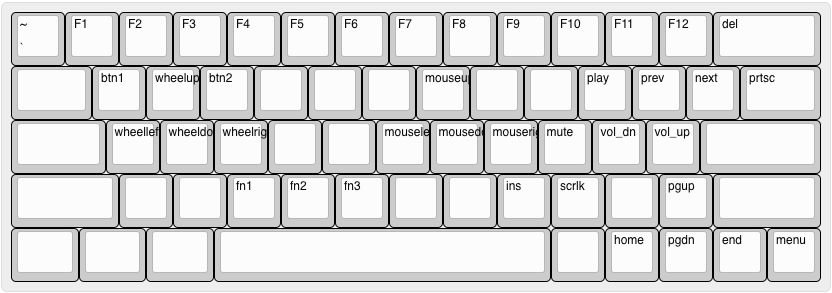
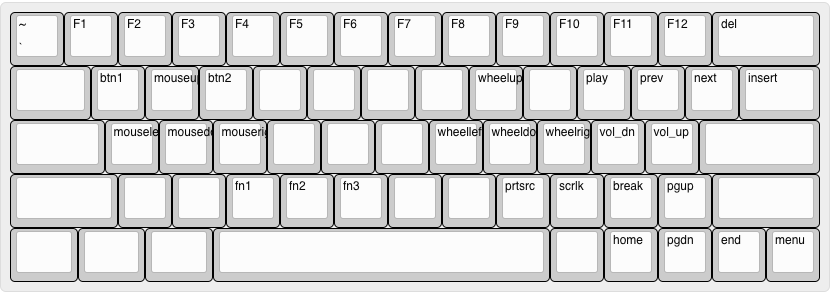
add keymap in C for QMK

Changed region(s): [[0.0, 0.0308, 1.0, 1.0], [0.5938, 0.0308, 0.625, 0.1849], [0.5312, 0.0616, 0.5625, 0.1233]]

diff --git a/keymap.c b/keymap.c
@@ -1,0 +1,32 @@
+#include QMK_KEYBOARD_H
+#include "action_layer.h"
+
+const uint16_t PROGMEM keymaps[][MATRIX_ROWS][MATRIX_COLS] = {
+
+  // 0: Base Layer
+  LAYOUT(
+      KC_ESC,  KC_1,    KC_2,    KC_3,    KC_4,   KC_5,   KC_6,   KC_7,   KC_8,   KC_9,    KC_0,    KC_MINS,  KC_EQL,  KC_BSPC,  KC_NO,    \
+      KC_TAB,  KC_Q,    KC_W,    KC_E,    KC_R,   KC_T,   KC_Y,   KC_U,   KC_I,   KC_O,    KC_P,    KC_LBRC,  KC_RBRC,           KC_BSLS,   \
+      KC_CAPS, KC_A,    KC_S,    KC_D,    KC_F,   KC_G,   KC_H,   KC_J,   KC_K,   KC_L,    KC_SCLN, KC_QUOT,  KC_NO,             KC_ENT,    \
+      KC_LSFT, KC_NO,   KC_Z,    KC_X,    KC_C,   KC_V,   KC_B,   KC_N,   KC_M,   KC_COMM, KC_DOT,  KC_SLASH, KC_UP,    KC_RSFT,  KC_NO,      \
+      KC_LCTL, KC_LGUI, KC_LALT,                          KC_SPC,                          F(0),    KC_LEFT,  KC_DOWN,  KC_RIGHT,KC_RCTL), 
+
+  // 1: Function Layer
+  LAYOUT(
+      KC_GRAVE,KC_F1,   KC_F2,   KC_F3,   KC_F4,  KC_F5,  KC_F6,  KC_F7,  KC_F8,  KC_F9,   KC_F10,  KC_F11,   KC_F12,  KC_DEL,   KC_NO,    \
+      KC_NO,KC_BTN1,KC_MS_U, KC_BTN2, KC_NO,KC_NO ,KC_NO ,KC_NO,  KC_WH_U, KC_NO,   KC_MEDIA_PLAY_PAUSE, KC_MEDIA_PREV_TRACK,  KC_MEDIA_NEXT_TRACK, KC_INSERT,    \
+      KC_NO,  KC_MS_L, KC_MS_D, KC_MS_R,  KC_NO,  KC_NO,  KC_NO, KC_WH_L, KC_WH_D, KC_WH_L,  KC_VOLD, KC_VOLU,  KC_NO,  KC_ENT,    \
+      KC_NO,  KC_NO,   KC_NO,   KC_NO,    BL_TOGG,   BL_DEC,   BL_INC,  MAGIC_TOGGLE_NKRO, KC_NO,    KC_PSCR, KC_SLCK, KC_BRK,  KC_PGUP,    KC_NO ,  KC_NO,   \
+      MAGIC_UNNO_GUI,  MAGIC_NO_GUI,   KC_NO,                          KC_SPC,                          F(0),    KC_HOME,  KC_PGDOWN,  KC_END,  KC_MENU),
+
+};
+
+// Custom Actions
+const uint16_t PROGMEM fn_actions[] = {
+    [0] = ACTION_LAYER_MOMENTARY(1),  // to Fn overlay
+};
+
+// Loop
+void matrix_scan_user(void) {
+  // Empty
+};
